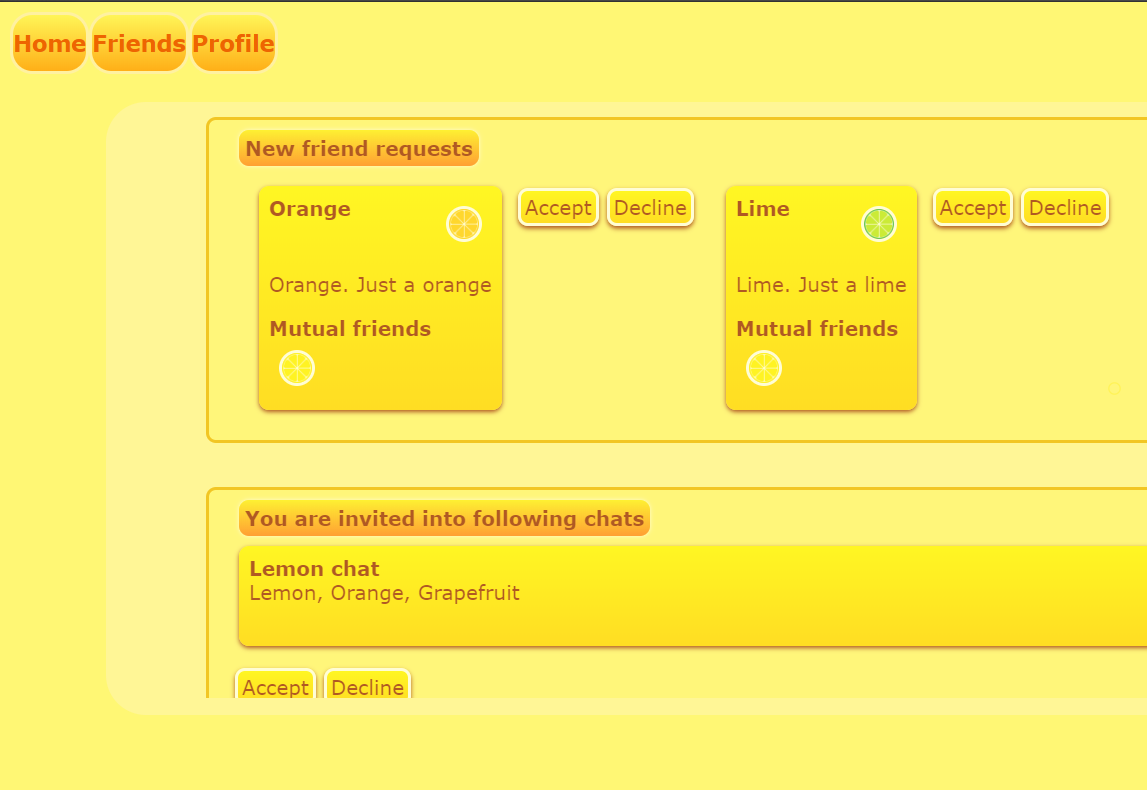
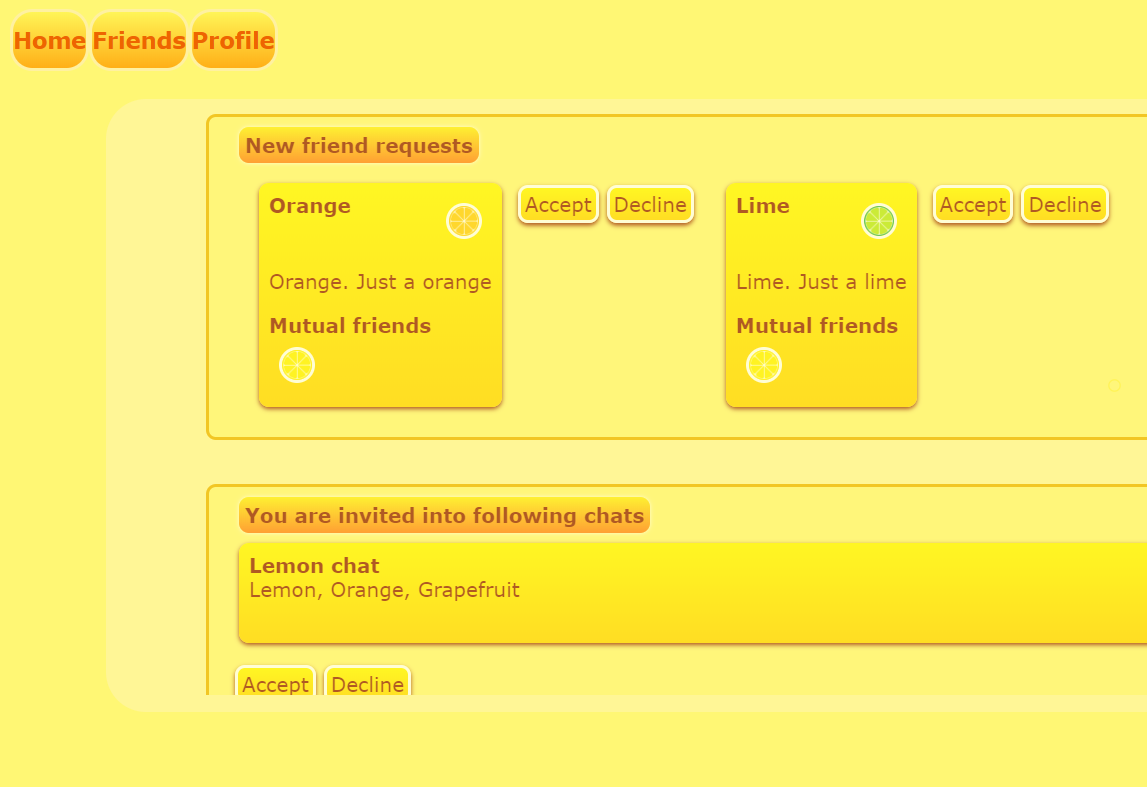
Fix bug with content shift to right on mobile devices

diff --git a/app/styles/mobile.scss b/app/styles/mobile.scss
@@ -61,6 +61,7 @@ table {
 
 .view {
   position: absolute;
+  left: 0;
   width: 100%;
   height: 100%;
 }
@@ -181,8 +182,7 @@ table {
   cursor: pointer;
 }
 
-.current-project > img:hover,
-.current-project > img:focus {
+.current-project > img:hover {
   box-shadow: 0px 0px 2px 2px white;
   width: 72%;
 }
